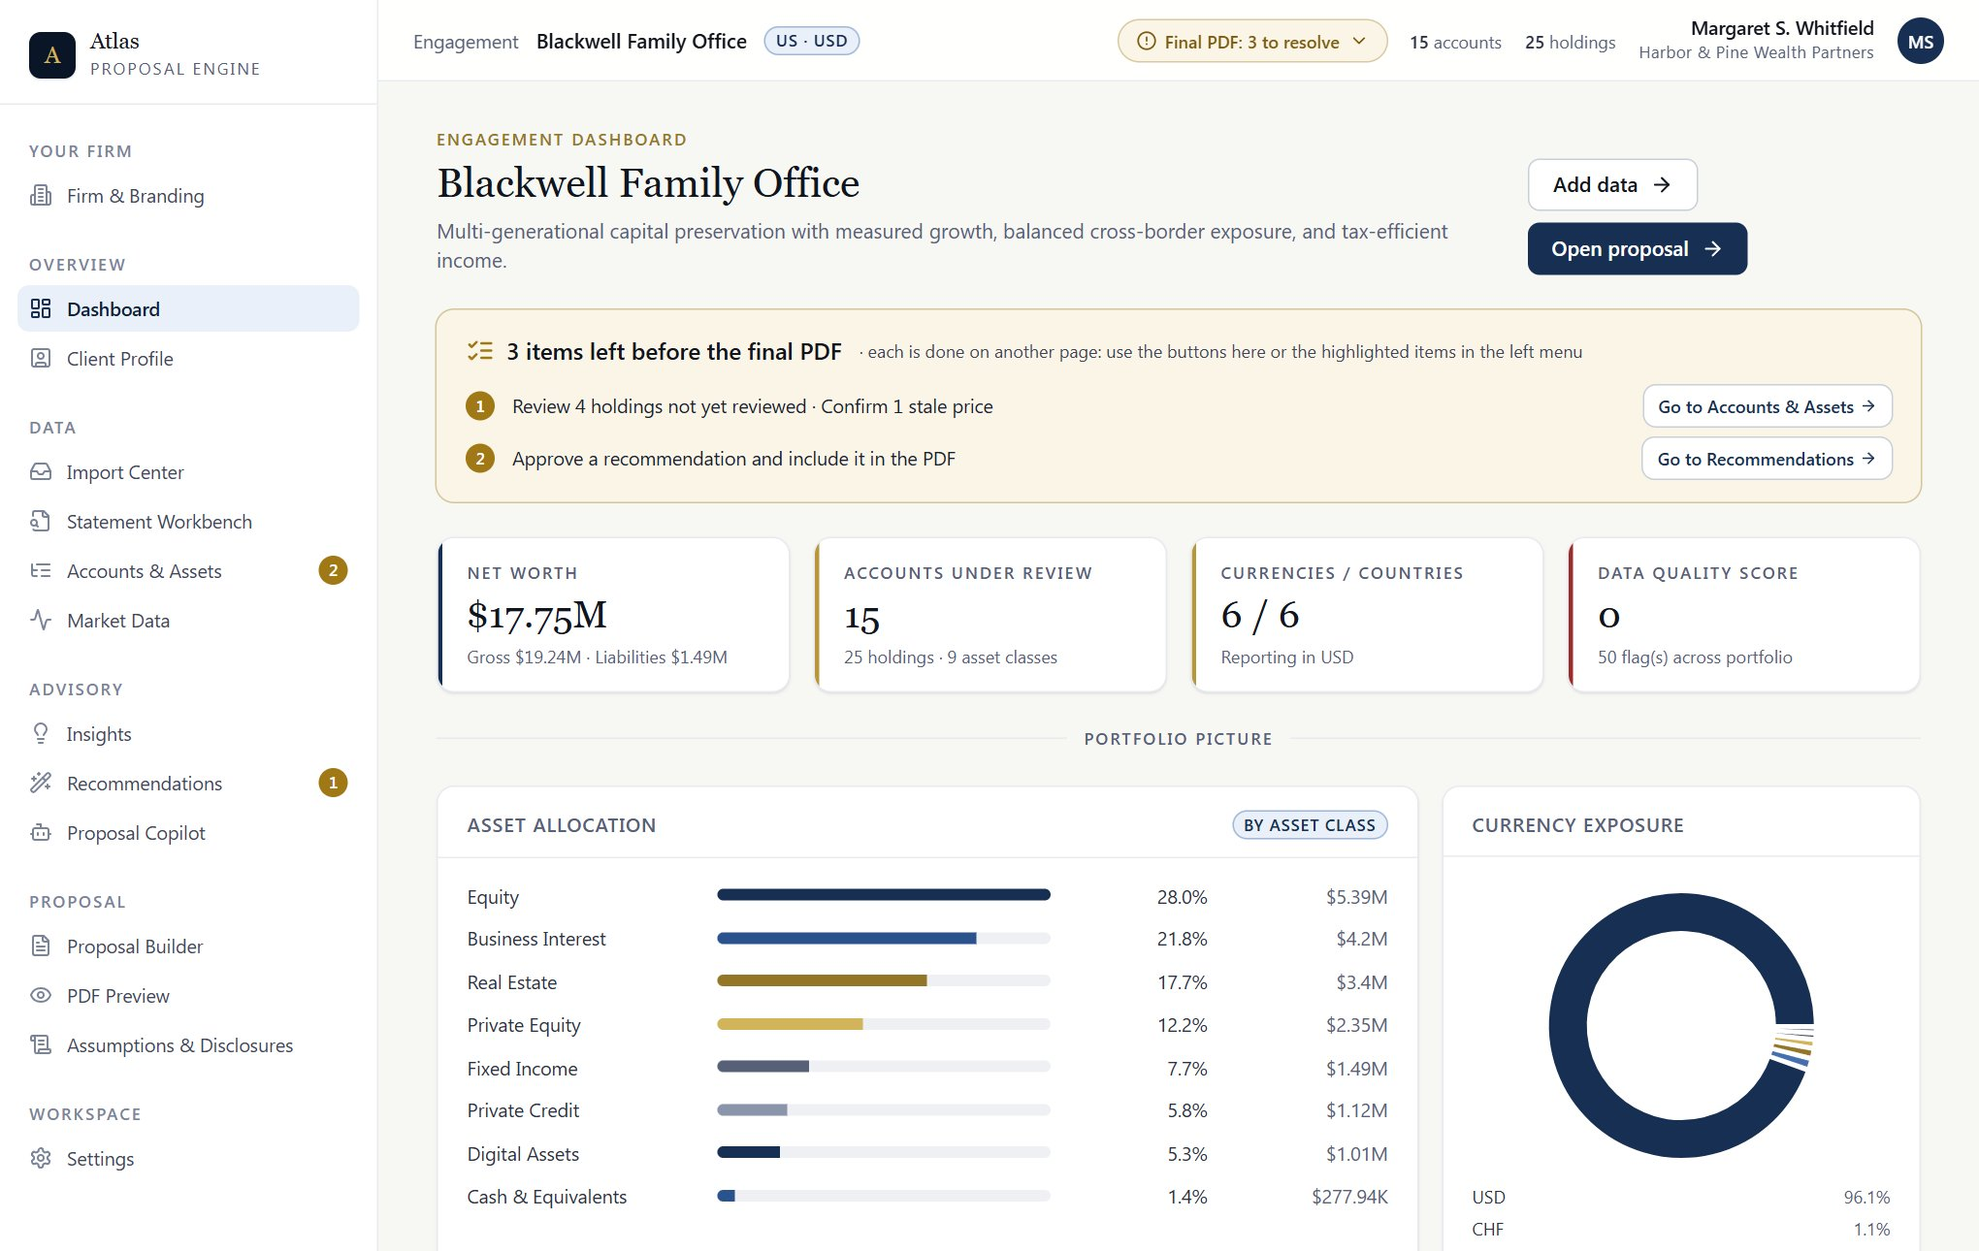
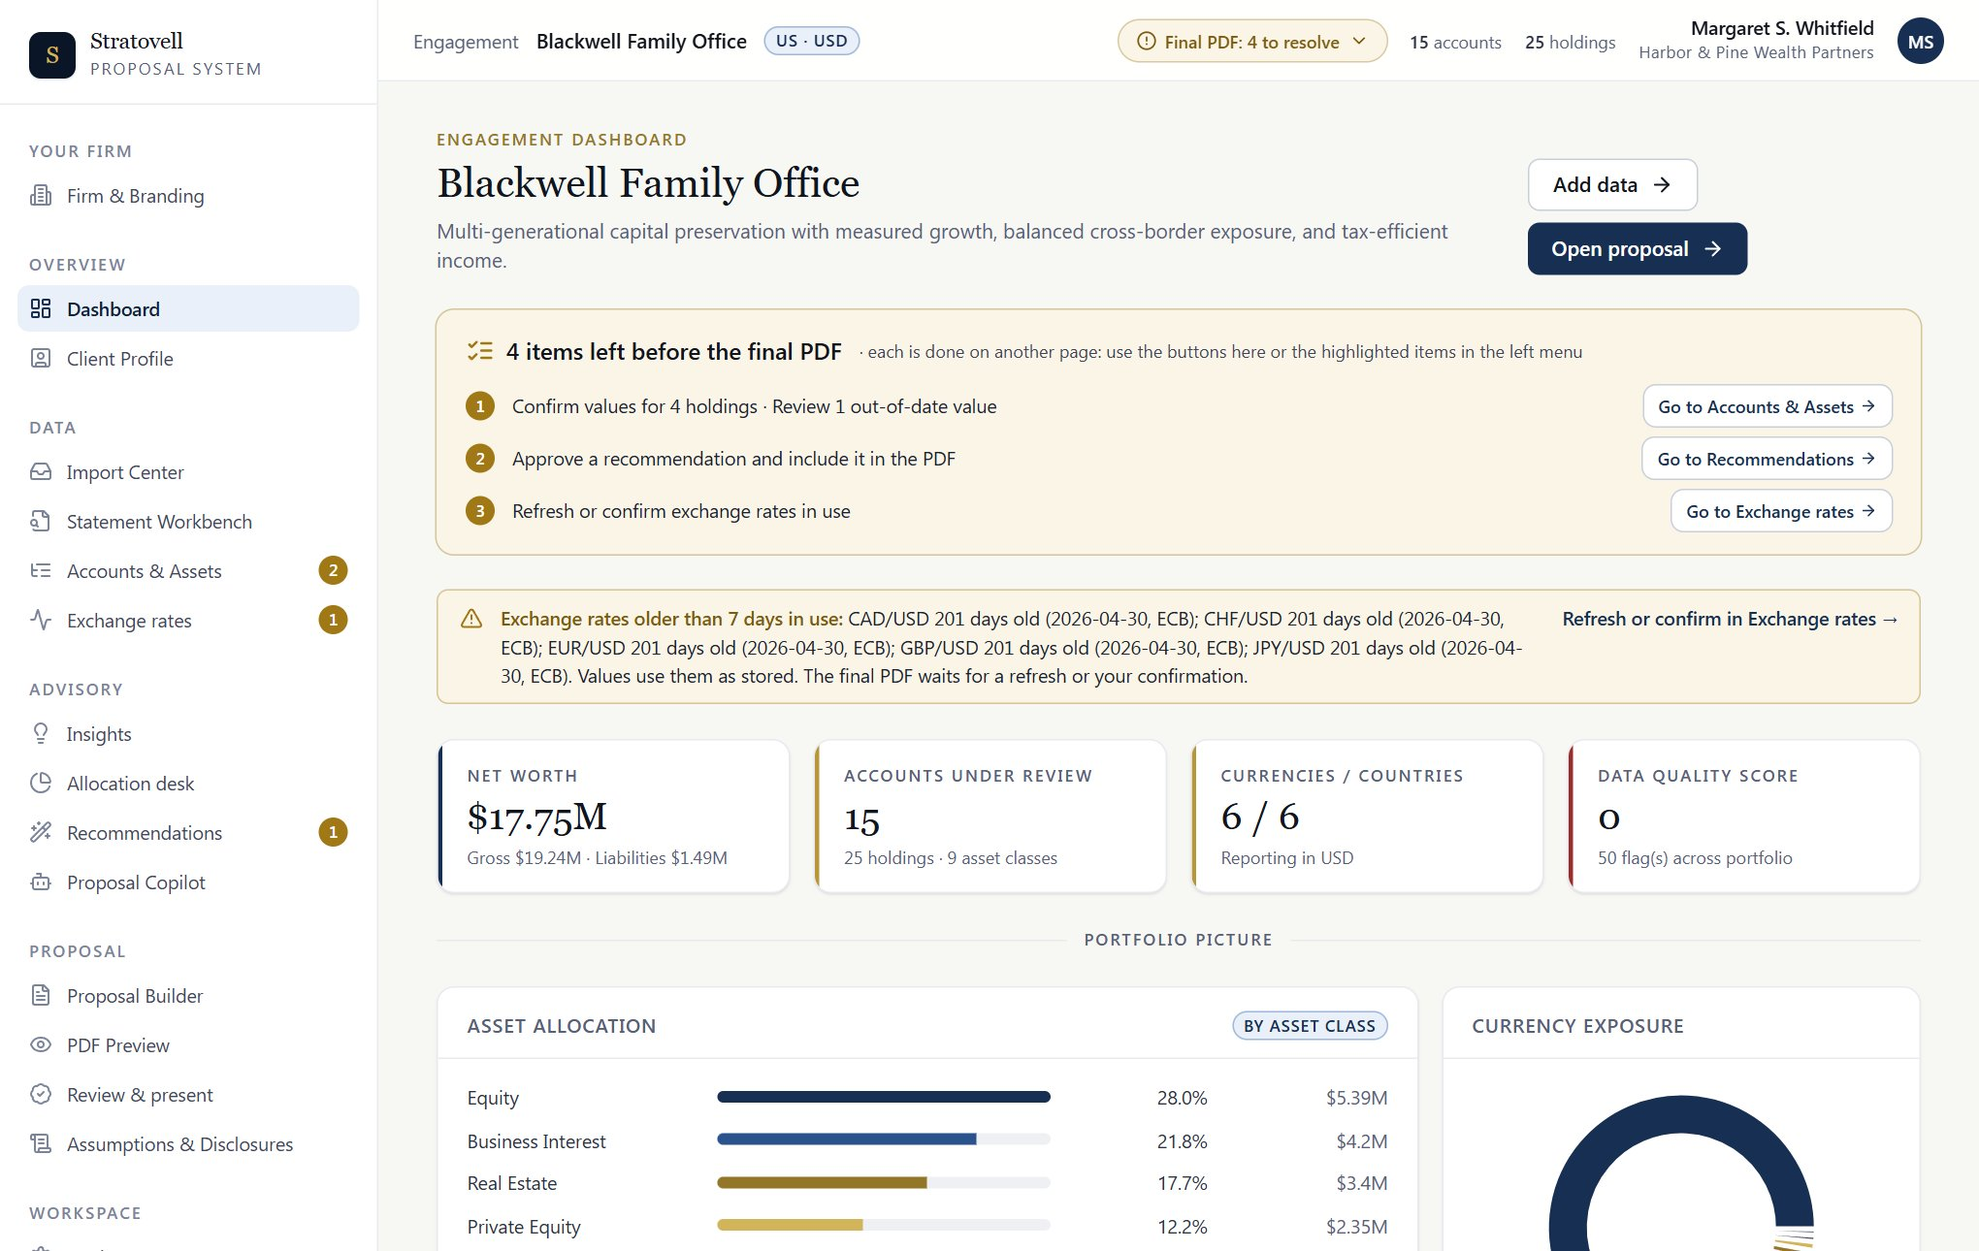
docs(D5): retake README screenshots, correct README claims, record the approved-version and PDF verification

diff --git a/docs/CLAUDE_HANDOFF.md b/docs/CLAUDE_HANDOFF.md
@@ -13,14 +13,14 @@
   - **Zod GHSA-mrhx-c7xc-m3w5 fixed:** `zod` `^3.24.1` → `^4.6.7`, one deduplicated copy, `npm audit` 0. Reproduced first at `parseCopilotRequest` (100,001 issues for 50,000 invalid holdings). Compatibility: `z.partialRecord` keeps partial target maps, `snapshot.ts` record key, export-allowlist walker. `tests/dependencySecurity.test.ts` has 7 tests. No store/backup version change; the runtime model, prompt and tool definitions are unchanged.
   - **PR #80** stays open and unmodified; its plan is executed by this batch and can be closed as superseded once this is reviewed (owner decision).
 - **#86 request resource limits — released:** PR #89 merged pinned to the Codex-approved head `284c690` as **`569b96f89efef60bc6c9d90fd92cc5745e90cb96`** (16 November 2026, 17:31 UTC). Main CI [run 43919291437](https://github.com/tylerbarnard23-PM/atlas-proposal-engine/actions/runs/43919291437) passed and Production deployment 7831453301 succeeded. One shared guard (`src/server/requestLimits.ts`) refuses oversized input before any schema, engine, readiness, Chromium or provider call: a streaming body limit (PDF 2 MB, Copilot 1 MB), then depth, value, list, string and key limits; the Copilot's nested lists are limited; validation errors are capped at 5 issues and 1,000 characters; fragmented uploads keep bytes, not fragments. Limits come from the largest fixture workspace, each at least 5×. **Production smoke passed (17 November 2026, synthetic, keyless):** a 480 KB draft PDF (legacy path), the scripted Copilot, and three refusals (413 oversized body, 400 oversized list, 400 malformed JSON, each with a reason of at most 57 characters); the saved production workspace was restored byte-identical (sha256 `48eb7ca1…`). Smoke limits: default sample, legacy PDF path, one request per refusal, no load. Records: [PR #89](https://github.com/tylerbarnard23-PM/atlas-proposal-engine/pull/89#issuecomment-6950894373), [#86](https://github.com/tylerbarnard23-PM/atlas-proposal-engine/issues/86#issuecomment-6950895478).
-- **Naming (#35) — Stratovell selected by Tyler; visible rename in review** (PR #90, branch `docs/35-naming-screening`). **Product name: Stratovell Proposal System; short name Stratovell; descriptor Advisor Proposal Workspace; formerly Atlas Proposal Engine.** The rename covers the wordmark, "S" monogram and icon, browser title, user-facing pages, Connect Claude, launcher and error messages, the PDF sample notice and approved-version wording, README and the maintained setup docs, with one former-name note. Preliminary screening of Stratovell (17 November 2026: no same-name product found; `.com`, `.ai`, `.app` and `.dev` unregistered when checked; **not trademark or legal clearance**) is in [D5_NAMING_SCREENING.md](roadmap/D5_NAMING_SCREENING.md); earlier rounds are superseded history. **Counsel's clearance and the announcement gate remain; nothing is announced.** Atlas references retained on purpose: the repository, live-demo URL and package name; the `atlas-proposal-engine` storage key; the `atlas-workspace-backup` format and file names; `ATLAS_*` variables, `.atlas-local/`, the `atlas_local_pair` and `atlas_live_session` cookies and the `X-Atlas-CSRF` header; the credential-store service name `Atlas Proposal Engine` (renaming it would orphan a remembered key); script file names (`atlas-local.mjs`); store and code identifiers; the model-facing Copilot prompt, tool descriptions and tool-result text, and evaluation rubrics (so the model may still call the product "Atlas"); the legacy sample-firm name; the SEC user-agent default; code comments; third-party fixtures (the valuation baseline keeps its original text and its test maps the product name); historical records, roadmap and plan documents, the history archives, the LinkedIn draft (publication is gated) and the README screenshots (see below). **Open:** the two README screenshots still show the old wordmark and must be retaken.
+- **Naming (#35) — Stratovell selected by Tyler; visible rename in review** (PR #90, branch `docs/35-naming-screening`). **Product name: Stratovell Proposal System; short name Stratovell; descriptor Advisor Proposal Workspace; formerly Atlas Proposal Engine.** The rename covers the wordmark, "S" monogram and icon, browser title, user-facing pages, Connect Claude, launcher and error messages, the PDF sample notice and approved-version wording, README and the maintained setup docs, with one former-name note. Preliminary screening of Stratovell (17 November 2026: no same-name product found; `.com`, `.ai`, `.app` and `.dev` unregistered when checked; **not trademark or legal clearance**) is in [D5_NAMING_SCREENING.md](roadmap/D5_NAMING_SCREENING.md); earlier rounds are superseded history. **Counsel's clearance and the announcement gate remain; nothing is announced.** Atlas references retained on purpose: the repository, live-demo URL and package name; the `atlas-proposal-engine` storage key; the `atlas-workspace-backup` format and file names; `ATLAS_*` variables, `.atlas-local/`, the `atlas_local_pair` and `atlas_live_session` cookies and the `X-Atlas-CSRF` header; the credential-store service name `Atlas Proposal Engine` (renaming it would orphan a remembered key); script file names (`atlas-local.mjs`); store and code identifiers; the model-facing Copilot prompt, tool descriptions and tool-result text, and evaluation rubrics (so the model may still call the product "Atlas"); the legacy sample-firm name; the SEC user-agent default; code comments; third-party fixtures (the valuation baseline keeps its original text and its test maps the product name); historical records, roadmap and plan documents, the history archives, and the LinkedIn draft (publication is gated). **Verified 17 November 2026 (synthetic data, isolated `*.localhost` origin, production build):** the README screenshots `dashboard.jpg` and `copilot.jpg` were retaken (scripted demo, label "Scripted demo · no model"); an approved version was made from the sample workspace and its **meeting view**, a **Chromium-rendered draft copy** and a **Chromium-rendered final PDF** (23 pages each) were read: Stratovell attribution on every page, SAMPLE and not-a-real-proposal wording, the advisor firm (Harbor & Pine Wealth Partners) and the approved content (one approved action, 25 values in USD, rates and fingerprint) intact, no "Atlas" anywhere; the wordmark fits at 768 and 1024 px, and the sidebar (and so the wordmark) is hidden below the large breakpoint, as before. **Observed, not changed:** the meeting view's document cover is wider than a 375 px screen and is clipped rather than scaled. **Open:** none for the branding PR itself beyond review.
 - **Delivered contracts to build on (store/backup v10):** scope, alternatives and the shared desk evaluator (D1/D2); versioned models and sleeves (D2a); append-only approved versions, one meeting-view/PDF template and server re-gating (D3); the context-bound agent with preview and explicit Add, labelled demo/test/live modes, and local onboarding with a user-owned key (D4). Earlier detail: [history (28 October)](CLAUDE_HANDOFF_HISTORY_2026-10-28.md), [history (16 November)](CLAUDE_HANDOFF_HISTORY_2026-11-16.md).
 - **Remaining work (concise):**
-  - **Owner decisions:** counsel's clearance of Stratovell (#35) and retaking the README screenshots; [#85](https://github.com/tylerbarnard23-PM/atlas-proposal-engine/issues/85) secret scanning and push protection; [#87](https://github.com/tylerbarnard23-PM/atlas-proposal-engine/issues/87) PDF-route abuse controls; Vercel access (its settings remain unread); closing PR #80 as superseded.
+  - **Owner decisions:** counsel's clearance of Stratovell (#35); [#85](https://github.com/tylerbarnard23-PM/atlas-proposal-engine/issues/85) secret scanning and push protection; [#87](https://github.com/tylerbarnard23-PM/atlas-proposal-engine/issues/87) PDF-route abuse controls; Vercel access (its settings remain unread); closing PR #80 as superseded.
   - D5 package: golden-path, keyboard and viewport evidence recorded honestly; the R25 protocol and empty scorecard; the README and demo narrative with limits.
   - Agent: the 27-trial evaluation and real-model browser checks (budget unapproved; one owner-operated run has passed); finding 3's pairing policy; [#83](https://github.com/tylerbarnard23-PM/atlas-proposal-engine/issues/83); [#84](https://github.com/tylerbarnard23-PM/atlas-proposal-engine/issues/84).
   - Other: #76. Real-client use still requires #59.
-- **Next action:** Codex reviews PR #90 (the focused branding PR); then the owner decides on merge, counsel's clearance and retaking the README screenshots; see "Next command: review the Stratovell branding PR" in [CLAUDE_COMMANDS.md](roadmap/CLAUDE_COMMANDS.md#next-command-review-the-stratovell-branding-pr).
+- **Next action:** Codex reviews PR #90 (the focused branding PR); then the owner decides on merge and counsel's clearance; see "Next command: review the Stratovell branding PR" in [CLAUDE_COMMANDS.md](roadmap/CLAUDE_COMMANDS.md#next-command-review-the-stratovell-branding-pr).
 - **Limitations carried forward:** replacements stay within one account and its cash currency; alternatives and library entries can't be deleted; no reserve conversion helper. D2a has no manager feeds, verified offerings, automatic funding sales, fee aggregation or nested models. D3 versions are local records, not tamper-proof books and records. Readiness labels, but doesn't refuse, an approved action outside a version's scope. All 25 R-plans remain Planned or partial; no scope issue closes.
 - **Preserved:** accepted values, FX and source dates, every readiness and final-PDF gate, legacy recommendation effects, #59 privacy, backup and agent requirements.
 

diff --git a/docs/roadmap/DEMO_DELIVERY_PLAN.md b/docs/roadmap/DEMO_DELIVERY_PLAN.md
@@ -31,7 +31,7 @@ This is a smaller first milestone, not a promise that AI can implement the full 
 - **D4 released:** PR #82 merged pinned to `b46eb57` as `3738588` (16 November 2026; main CI run 43895100169: 724 passed, 2 skipped; Production deployment 7828072724); synthetic keyless production smoke recorded on PR #82 and #54. It delivers the context-bound agent with scoped simulation, preview and explicit Add, labelled demo/test/live modes, and local onboarding with a user-owned key. **Agent evidence:** one owner-operated real-Claude run passed (16 November 2026); the 27-trial evaluation and real-model browser checks are **not performed** and their budget is unapproved.
 - **D5 usability slice (on PR #82, 29 October 2026):** the owner-approved simplification of the Allocation desk → Copilot → Recommendations journey (Copilot beside the desk, explicit preview/added states, labelled Draft/Approved and Current draft/All views, account-scope summary). A bounded slice, not D5 completion. Branding, the README/demo narrative, the R25 protocol and any advisor study remain open.
 - **D5 security and dependency gate (released, 16 November 2026):** PR #88 merged pinned to the Codex-reviewed `1ac6658` as `ba5f6ce`; the report-only secrets and exposure check planned in PR #80 was run against current main ([D5_SECURITY_DEPENDENCY_GATE.md](D5_SECURITY_DEPENDENCY_GATE.md)): no exposed credential; findings #85–#87 recorded; Vercel configuration unavailable. GHSA-mrhx-c7xc-m3w5 is fixed by Zod 4.6.7 with regressions. **#86 request limits released:** PR #89 merged pinned to `284c690` as `569b96f`; main CI and Production deployment 7831453301 passed; a keyless production smoke passed on 17 November 2026.
-- **D5 naming (#35) — Stratovell selected; rename in review (17 November 2026):** Tyler selected **Stratovell** (Stratovell Proposal System, formerly Atlas Proposal Engine); earlier rounds ([D5_NAMING_SCREENING.md](D5_NAMING_SCREENING.md)) are superseded history. PR #90 holds the visible rename under the [implementation checklist](D5_BRANDING_IMPLEMENTATION_CHECKLIST.md); technical identities are preserved. Preliminary screening only: **not trademark or legal clearance.** **Naming remains an explicit publication gate:** no LinkedIn publication or announcement until counsel has cleared the name. README screenshots await a retake.
+- **D5 naming (#35) — Stratovell selected; rename in review (17 November 2026):** Tyler selected **Stratovell** (Stratovell Proposal System, formerly Atlas Proposal Engine); earlier rounds ([D5_NAMING_SCREENING.md](D5_NAMING_SCREENING.md)) are superseded history. PR #90 holds the visible rename under the [implementation checklist](D5_BRANDING_IMPLEMENTATION_CHECKLIST.md); technical identities are preserved. Preliminary screening only: **not trademark or legal clearance.** **Naming remains an explicit publication gate:** no LinkedIn publication or announcement until counsel has cleared the name. The README screenshots have been retaken.
 - Observed main: `8b06b6a842d8b11adc1b96967c78aee9c0e12a6c` (PR #70, merged 24 October 2026; main CI run 40101245056: **402 passed, 2 skipped, 404 total**, eval 2/2, typecheck and build; GitHub Production deployment for that SHA). Before it: `7d5999fa01e15a1271bb81812cd8cabbbf58d095` (PR #69, R18 slice 1). PR #68's audit is merged as `298b719`; R23a is merged as `e56335e`.
 - PR #69 reviewed head: `7619327ca7093a3351760f826560e3c577a30faf`. Main CI run 40097812771 passed: **393 passed, 2 skipped, 395 total**, eval 2/2, typecheck and build. The two skips need the private UBS PDF; the reported local suite passed all 395.
 - Release evidence on [PR #69](https://github.com/tylerbarnard23-PM/atlas-proposal-engine/pull/69#issuecomment-6384766252) and [#51](https://github.com/tylerbarnard23-PM/atlas-proposal-engine/issues/51#issuecomment-6384766474) records production draft/final-control tests, 422 missing-FX/incomplete-import gates, New York/UTC approval-date parity and exact browser-workspace restoration. These are prior release observations, not tests performed by this plan.

diff --git a/README.md b/README.md
@@ -172,7 +172,7 @@ npm run build
 npm run local
 ```
 
-`npm run local` starts Stratovell on `127.0.0.1` only and opens it paired with your browser. Then follow **Connect Claude** on the Proposal Copilot page: create a dedicated Console workspace with a spend limit, paste a standard API key, choose whether Stratovell remembers it, and start a limited session. `npm run local:doctor` checks the machine without contacting Anthropic. The full guide, limits and security design are in [Local Claude setup](docs/roadmap/LOCAL_CLAUDE_SETUP.md). API usage is billed to your Console account. The public demo deliberately runs without a key, and live mode refuses on a hosted deployment. This path has been exercised with fake providers only; it is not yet verified against real Claude. Everything else is optional:
+`npm run local` starts Stratovell on `127.0.0.1` only and opens it paired with your browser. Then follow **Connect Claude** on the Proposal Copilot page: create a dedicated Console workspace with a spend limit, paste a standard API key, choose whether Stratovell remembers it, and start a limited session. `npm run local:doctor` checks the machine without contacting Anthropic. The full guide, limits and security design are in [Local Claude setup](docs/roadmap/LOCAL_CLAUDE_SETUP.md). API usage is billed to your Console account. The public demo deliberately runs without a key, and live mode refuses on a hosted deployment. Everything except one run was built and tested with fake providers; on 16 November 2026 the owner ran this path once against real Claude (one question, synthetic data, a dedicated Console workspace with a spend limit, 4 provider requests, about USD 0.07 estimated, no fallback model). That single run is not the 27-trial agent evaluation or the broader real-model browser checks, which have not been performed. Everything else is optional:
 
 | Variable | Purpose |
 |---|---|
@@ -185,7 +185,7 @@ Stratovell is white-label: clients see the adviser's firm, logo and colors, not 
 
 Every PDF Stratovell generates is marked as a sample: a SAMPLE watermark on final PDFs (DRAFT on drafts), a notice at the foot of every page, and a `SAMPLE_` filename prefix. The same disclaimer appears in the app footer. These markings are intentional and stay in this repository.
 
-> **The one Stratovell mark on client documents.** The sample notice (`PDF_SAMPLE_NOTICE` in `src/domain/legal.ts`, the SAMPLE watermark and cover label, and the `SAMPLE_` filename prefix) is the only place Stratovell appears on a client-facing PDF. An adopter with the necessary rights would need its own reviewed output policy; sample markings are not a licensing permission or a compliance approval.
+> **Stratovell on client documents.** The sample notice (`PDF_SAMPLE_NOTICE` in `src/domain/legal.ts`, the SAMPLE watermark and cover label, and the `SAMPLE_` filename prefix) is the Stratovell attribution every page carries (the notice repeats in the footer of each page). The product name also appears in the approved-version note ("a local Stratovell record") and in the two statements that Stratovell does not reprice securities or use a price feed; the advisor's firm name and branding stay as the advisor set them. An adopter with the necessary rights would need its own reviewed output policy; sample markings are not a licensing permission or a compliance approval.
 
 Any authorized adaptation for real client work also requires the relevant production controls and review before removing sample markings: compliance review, books-and-records retention, supervision, data security and vendor due diligence are the responsibility of whoever deploys it.
 

diff --git a/docs/roadmap/CLAUDE_COMMANDS.md b/docs/roadmap/CLAUDE_COMMANDS.md
@@ -61,7 +61,7 @@ Saved on 17 November 2026. Tyler selected **Stratovell** on [#35](https://github
 
 1. **Codex** reviews PR #90: that only display text changed, every retained technical identity is intact, the `Atlas` references that remain are intended (listed in [the handoff](../CLAUDE_HANDOFF.md)), approved versions and backups still load, and the PDF sample notice and demo disclaimers stay accurate.
 2. **The owner** decides on merge (pinned: `gh pr merge 90 --merge --match-head-commit <reviewed head>`), counsel's clearance of the name, and whether the model-facing prompt and credential-store service name get their own later change (they are retained; see [the checklist](D5_BRANDING_IMPLEMENTATION_CHECKLIST.md) section 2).
-3. **Claude** then retakes `docs/screenshots/dashboard.jpg` and `copilot.jpg` (they still show the old wordmark) and records the post-merge production check.
+3. **Claude** then records the post-merge production check. The README screenshots were retaken and the approved-version meeting view, a draft copy and a final PDF were read on 17 November 2026 (see [the handoff](../CLAUDE_HANDOFF.md)).
 4. **Separate owner decisions:** [#85](https://github.com/tylerbarnard23-PM/atlas-proposal-engine/issues/85), [#87](https://github.com/tylerbarnard23-PM/atlas-proposal-engine/issues/87), Vercel access, closing PR #80. **Then the D5 package:** golden-path, keyboard and viewport evidence, the R25 protocol and scorecard, the README and demo narrative.
 
 Until the owner says otherwise: no merge, announcement or LinkedIn publication, no purchase (domains, handles, trademarks), settings change or paid call.
